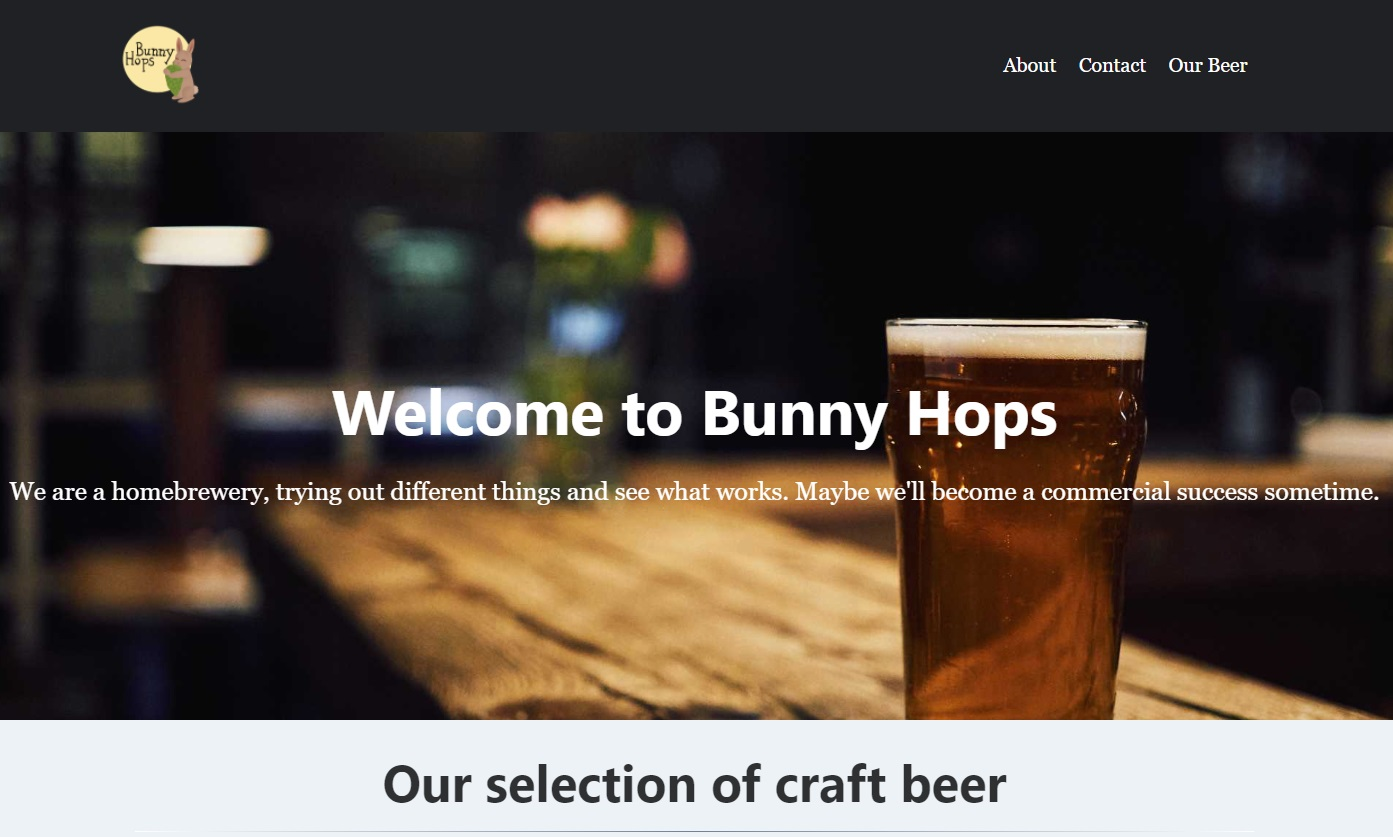
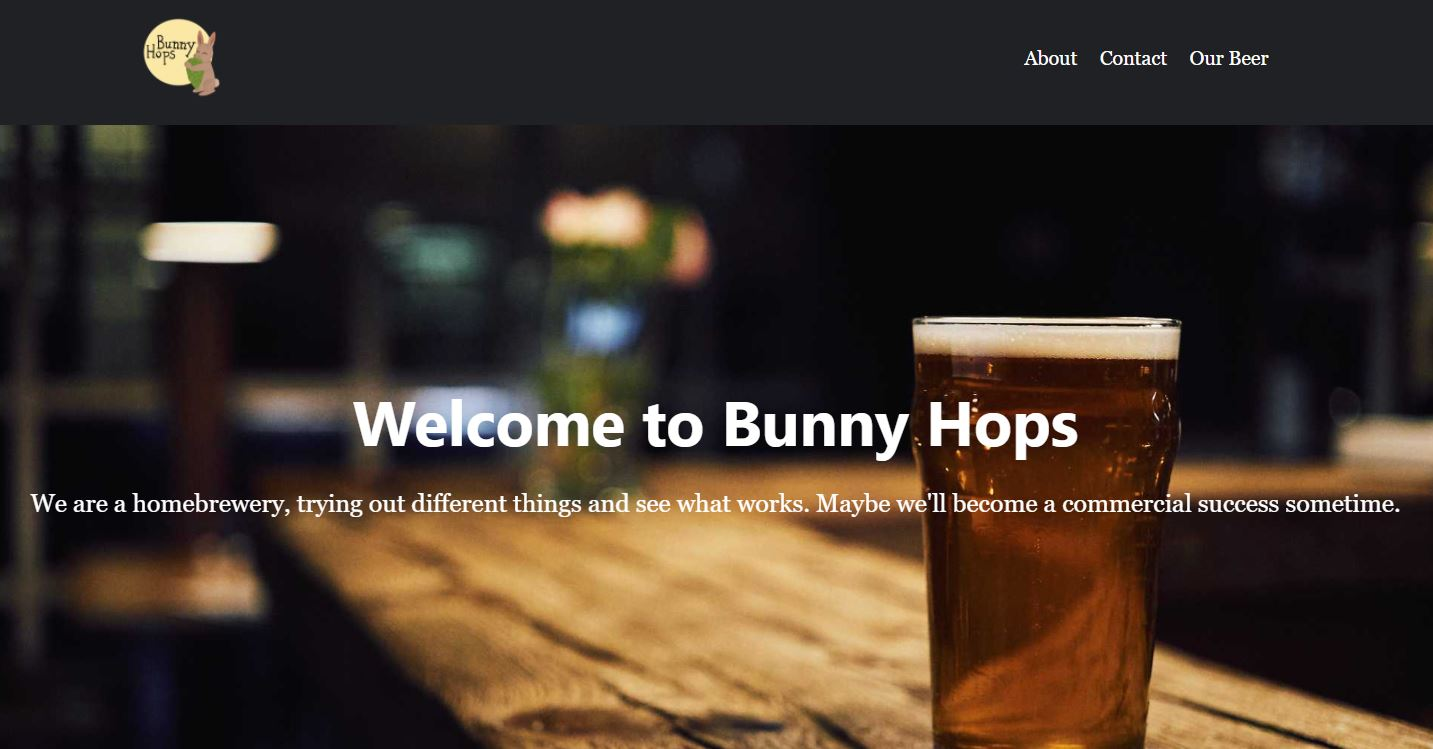
add contact form

diff --git a/src/components/styles.css b/src/components/styles.css
@@ -21,9 +21,14 @@ section {
 }
 
 #landing {
-  background: url("../images/photoholgic-unsplash.jpg");
-  background-size: cover;
-  background-position: center;
+  height: 100vh;
+  width: 100%;
+}
+
+#landing > img {
+  object-fit: cover;
+  width: 100%;
+  height: 100%;
 }
 
 .nav {
@@ -83,7 +88,7 @@ section {
 .title-text > p {
   max-width: 60%;
   margin: 2% 0;
-  text-shadow: 1px 1px 1px rgb(73, 73, 73, 0.5);
+  text-shadow: 2px 2px 10px rgba(9, 7, 44, 0.938);
 }
 
 .section-text {
@@ -108,8 +113,8 @@ section {
 }
 
 .portfolio-item {
-  min-width: 400px;
-  min-height: 400px;
+  width: 400px;
+  height: 400px;
   margin: 2% 0;
   position: relative;
 }
@@ -130,23 +135,35 @@ section {
 }
 
 .bunnyhops {
-  background-image: url('../images/bunnyhops.jpg');
-}
-
-.quiz{
-  background-image: url('../images/quiz.jpg');
-}
-
-.vanilla-todo {
-  background-image: url('../images/vanilla-todo.jpg');
-}
-
-.portfolio-item-image {
-  background-size: cover;
+  object-fit: cover;
+  width: 100%;
   height: 200px;
   border-top-left-radius: 5px;
   border-top-right-radius: 5px;
 }
+
+.quiz{
+  object-fit: cover;
+  width: 100%;
+  height: 200px;
+  border-top-left-radius: 5px;
+  border-top-right-radius: 5px;
+}
+
+.vanilla-todo {
+  object-fit: cover;
+  width: 100%;
+  height: 200px;
+  border-top-left-radius: 5px;
+  border-top-right-radius: 5px;
+}
+
+/* .portfolio-item-image {
+  background-size: cover;
+  height: 200px;
+  border-top-left-radius: 5px;
+  border-top-right-radius: 5px;
+} */
 
 .hide {
   display: block;
@@ -218,10 +235,8 @@ section {
   grid-template-columns: 1fr 2fr;
 }
 
-.about-str > svg {
-  display: flex;
-  justify-self: center;
-  align-self: center;
+.icons {
+  margin: 25%;
   color: rgba(10, 0, 200, 0.5);
 }
 
@@ -250,27 +265,88 @@ section {
   border-radius: 50%;
 }
 
-/* .slider {
-  position: fixed;
-  top: 0;
-  left: 0;
+.about-me-text {
+  width: 60%;
+  text-align: center;
+  margin: 10% auto;
+  color: rgb(73, 73, 73)
+}
+
+.contact-form {
+  display: flex;
+  flex-direction: column;
+  justify-content: center;
+  align-items: center;
+  margin-top: 5%;
+}
+
+.contact-form > form {
+  width: 40%;
+}
+
+.contact-form > h3 {
+  color: rgba(10, 0, 200, 0.5);
+}
+
+.contact-form > form > p > input {
   width: 100%;
-  height: 100%;
-  transform: translateY(100%);
+  height: 5vh;
+  font-size: 18px;
+  padding-left: 10px;
+  background-color: rgb(240, 240, 240);
+  border: none;
+  box-shadow: none;
 }
 
-.intro-text {
-  color: rgb(227, 242, 255);
-  font-family: Raleway, sans-serif;
-  font-size: 2rem;
-} */
+.contact-form > form > p > textarea {
+  width: 100%;
+  font-size: 18px;
+  padding-left: 10px;
+  padding-top: 10px;
+  height: 20vh;
+  background-color: rgb(240, 240, 240);
+  border: none;
+  box-shadow: none;
 
-/* .hide {
-  background: black;
-  overflow: hidden;
 }
 
-.hide span {
-  transform: translateY(100%);
-  display: inline-block;
-} */
+.contact-form > form > p {
+  margin: 3%;
+}
+
+.contact-form > form > button {
+  margin: 3%;
+  padding: 3% 20% 3% 10px;
+  font-size: 18px;
+  background-color: rgba(10, 0, 200, 0.5);
+  color: white;
+  border: none;
+  transition: 0.3s ease-in-out;
+}
+
+.contact-form > form > button:hover {
+  border: 2px solid rgba(10, 0, 200, 0.5);
+  cursor: pointer;
+  background-color: white;
+  color:  rgba(10, 0, 200, 0.5);
+}
+
+.contact-form > form > p > input:focus {
+  outline: none;
+}
+
+.contact-form > form > p > textarea:focus {
+  outline: none;
+}
+
+footer {
+  width: 100%;
+  height: 10vh;
+  text-align: center;
+  background-color: rgb(245, 245, 245)
+}
+
+footer > p {
+  padding: 2%;
+  color: rgb(73, 73, 73);
+}

diff --git a/src/pages/about.js b/src/pages/about.js
@@ -3,8 +3,10 @@ import "../components/styles.css"
 import ProfileImg from "../images/marie.jpg"
 import { FontAwesomeIcon } from '@fortawesome/react-fontawesome'
 import { faLaptopCode, faFilm, faGraduationCap } from '@fortawesome/free-solid-svg-icons';
+import Fade from 'react-reveal/Fade';
 
 const About = () => {
+
   return (
     <div>
       <section id="about">
@@ -14,31 +16,37 @@ const About = () => {
         </div>
         <div className="about-content">
           <div className="about-str">
-            <FontAwesomeIcon icon={faLaptopCode} size="6x"/>
-            <div className="text-box">
-              <h3>{`</salt>`}</h3>
-              <p>2020</p>
-              <p>{`Graduated as a full stack developer from the School of Applied technology (</salt>) in Stockholm.`}</p>
-            </div>
-            <FontAwesomeIcon icon={faFilm} size="6x"/>
-            <div className="text-box">
-              <h3>Viaplay</h3>
-              <p>2018-2020</p>
-              <p>{`After graduating university in 2018, I moved to Stockholm and started working as a Content Coordinator at Viaplay. Here I stayed untill I joined </salt> in 2020.`}</p>
-            </div>
-            <FontAwesomeIcon icon={faGraduationCap} size="6x"/>
-            <div className="text-box">
-              <h3>University of Copenhagen</h3>
-              <p>2013-2018</p>
-              <p>Studied at the University of Copenhagen, where I received my Bachelor's degree in Communication and IT and my Master's degree in Cross-Media Communication.</p>
-            </div>
+            <Fade bottom delay={100}>
+              <FontAwesomeIcon className="icons" icon={faLaptopCode} size="6x"/>
+              <div className="text-box">
+                <h3>{`</salt>`}</h3>
+                <p>2020</p>
+                <p>{`Graduated as a full stack developer from the School of Applied technology (</salt>) in Stockholm.`}</p>
+              </div>
+            </Fade>
+            <Fade bottom delay={100}>
+              <FontAwesomeIcon className="icons" icon={faFilm} size="6x"/>
+              <div className="text-box">
+                <h3>Viaplay</h3>
+                <p>2018-2020</p>
+                <p>{`After graduating university in 2018, I moved to Stockholm and started working as a Content Coordinator at Viaplay. Here I stayed untill I joined </salt> in 2020.`}</p>
+              </div>
+            </Fade>
+            <Fade bottom delay={100}>
+              <FontAwesomeIcon className="icons" icon={faGraduationCap} size="6x"/>
+              <div className="text-box">
+                <h3>University of Copenhagen</h3>
+                <p>2013-2018</p>
+                <p>Studied at the University of Copenhagen, where I received my Bachelor's degree in Communication and IT and my Master's degree in Cross-Media Communication.</p>
+              </div>
+            </Fade>
           </div>
           <div className="about-me">
             <div className="about-img-container">
-              <img src={ProfileImg} alt=""></img>
+              <Fade top delay={100}><img src={ProfileImg} alt=""></img></Fade>
             </div>
             <div className="about-me-text">
-                
+              <Fade right delay={100}><p>As a lifelong learner I thrive when I am met with challenges and the chance to learn something new. I am motivated by creating solutions to problems, and believe that the value of a product comes from the value it provides for its users.</p></Fade>
             </div>
             </div>
         </div>

diff --git a/src/pages/portfolio.js b/src/pages/portfolio.js
@@ -1,6 +1,9 @@
 import React from "react"
 import "../components/styles.css"
 import Fade from 'react-reveal/Fade';
+import BunnyhopsImg from "../images/bunnyhops.jpg"
+import quizImg from "../images/quiz.jpg"
+import TodoImg from "../images/vanilla-todo.jpg"
 
 const Portfolio = () => (
   <div>
@@ -12,7 +15,7 @@ const Portfolio = () => (
       <div className="portfolio-container">
         <Fade bottom delay={100}>
         <div className="portfolio-item">
-          <div className="portfolio-item-image bunnyhops"></div>
+          <img className="portfolio-item-image bunnyhops" alt="" src={BunnyhopsImg}></img>
           <div className="portfolio-item-text">
             <h1>Bunny Hops</h1>
             <p>Website created with Gatsby connected to Contentful CMS.</p>
@@ -29,7 +32,7 @@ const Portfolio = () => (
         </Fade>
         <Fade bottom delay={200}>
         <div className="portfolio-item">
-          <div className="portfolio-item-image quiz"></div>
+          <img className="portfolio-item-image quiz" alt="" src={quizImg}></img>
           <div className="portfolio-item-text">
             <h1>{`</salt> Quiz`}</h1>
             <p>Small React application created as a one-day project</p>
@@ -46,7 +49,7 @@ const Portfolio = () => (
         </Fade>
         <Fade bottom delay={300}>
         <div className="portfolio-item">
-          <div className="portfolio-item-image vanilla-todo"></div>
+          <img className="portfolio-item-image vanilla-todo" alt="" src={TodoImg}></img>
           <div className="portfolio-item-text">
             <h1>Vanilla Todo-list</h1>
             <p>A single page application created with vanilla JavaScript</p>

diff --git a/src/pages/contact.js b/src/pages/contact.js
@@ -1,5 +1,6 @@
 import React from "react"
 import "../components/styles.css"
+import Fade from 'react-reveal/Fade';
 
 const Contact = () => (
   <div>
@@ -7,6 +8,21 @@ const Contact = () => (
       <h1 className="section-text" data-sal="slide-right" data-sal-delay="3000" data-sal-duration="1500" data-sal-easing="easing" style={{textAlign: 'center'}}>Contact</h1> 
       <div data-sal="slide-right" data-sal-duration="2000" data-sal-easing="easing">
             <div className="underline" />
+      </div>
+      <div className="contact-form">
+        <Fade top><h3>Want to get in touch?</h3></Fade>
+        <form name="contact" method="POST" data-netlify="true" autoComplete="off">
+          <p>
+            <Fade top><input type="text" name="name" placeholder="Name"/></Fade>  
+          </p>
+          <p>
+            <Fade top><input type="email" name="email" placeholder="Email Adress"/></Fade>
+          </p>
+          <p>
+            <Fade top><textarea name="message" placeholder="Message"></textarea></Fade>
+          </p>
+            <Fade top><button type="submit">Send</button></Fade>
+        </form>
       </div>
     </section>
   </div>

diff --git a/src/pages/index.js b/src/pages/index.js
@@ -5,7 +5,9 @@ import Header from "../components/header"
 import About from "../pages/about"
 import Portfolio from "../pages/portfolio"
 import Contact from "../pages/contact"
+import Footer from "../components/footer"
 import "../components/styles.css"
+import LandingImg from "../images/photoholgic-unsplash.jpg"
 
 const IndexPage = () => {
   let title = "Hello, my name is Marie";
@@ -14,6 +16,7 @@ const IndexPage = () => {
   <div>
     <SEO title="Home" />
     <section id="landing">
+      <img alt="" src={LandingImg}></img>
       <Header />
         <div className="title-text">
           <h1>
@@ -31,7 +34,7 @@ const IndexPage = () => {
     <About />
     <Portfolio />
     <Contact />
-    <div className="slider"></div>
+    <Footer />
   </div>
 )}
 

diff --git a/src/components/footer.js b/src/components/footer.js
@@ -1,0 +1,10 @@
+import React from "react"
+
+const Footer = () => {
+  return (
+  <footer>
+    <p>Marie Winther Madsen @2020</p>
+  </footer>
+)}
+
+export default Footer
